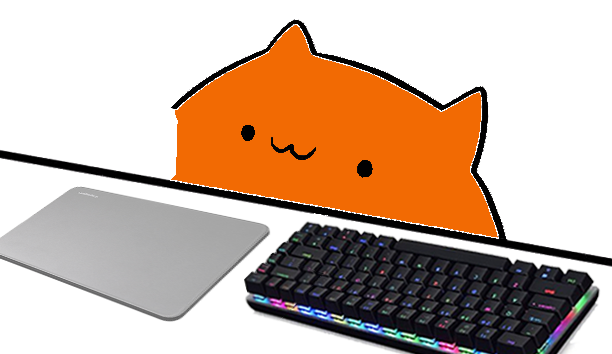
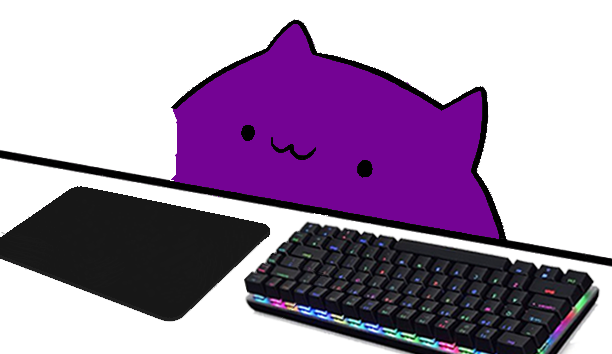
yup

Changed region(s): [[0.2794, 0.0621, 0.8382, 0.6836], [0.0, 0.5282, 0.4657, 0.9011]]

diff --git a/src/data.cpp b/src/data.cpp
@@ -37,7 +37,7 @@ void create_config() {
     "osu": {
         "mouse": true,
         "toggleSmoke": true,
-        "paw": [242, 106, 3],
+        "paw": [116, 3, 148],
         "pawEdge": [0, 0, 0],
         "key1": [32],
         "key2": [87],
